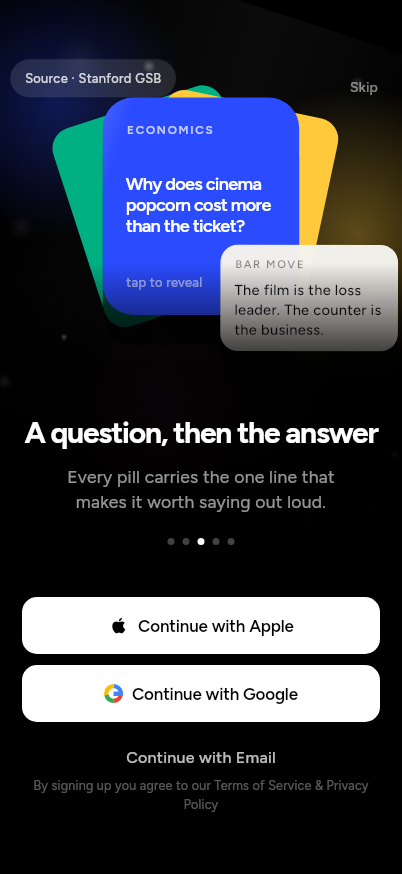
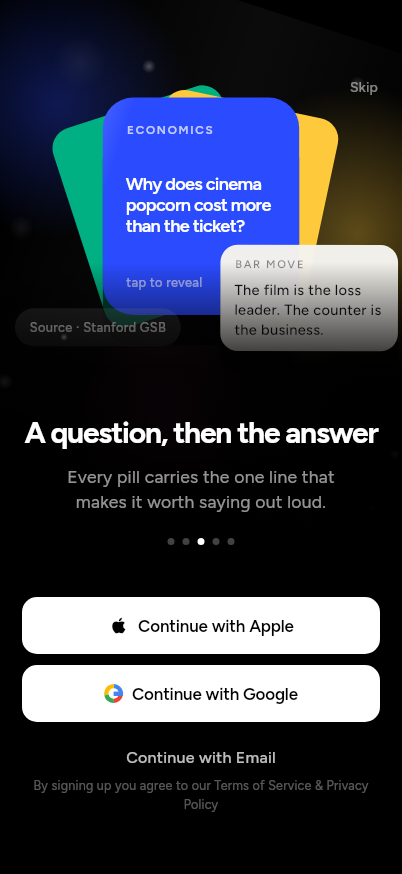
Move the source label below the card, clear of the edge
Above the deck it sat higher than Skip, which made a caption read as a
control — the eye takes the topmost thing on a screen as something to
press. It is bottom left now, under the card and beside the bar move,
which is also where a source belongs: after the claim, not before it.

It keeps a margin from the left as well. A label touching the glass
reads as something that did not fit rather than something placed.

Tests hold at 141.

Claude-Session: https://claude.ai/code/session_01N7S5NWHHUHV1bxBrKEgGPn

Changed region(s): [[0.0299, 0.0618, 0.4478, 0.1236], [0.209, 0.3707, 0.4179, 0.4016], [0.0896, 0.3707, 0.1791, 0.4016]]

diff --git a/lib/screens/intro_screen.dart b/lib/screens/intro_screen.dart
@@ -1188,11 +1188,12 @@ class _SceneCard extends StatelessWidget {
             ),
           ),
           Positioned(
-            left: 12,
-            // Above the deck rather than across it. Lying on the card it
-            // covered the one thing the card is there to show, and a label
-            // over artwork reads as a sticker somebody forgot to peel off.
-            top: 0,
+            // Bottom left, beside the bar move and below the card. Above the
+            // deck it sat higher than Skip, which made a caption look like a
+            // control; and it keeps a margin, because a label touching the
+            // glass reads as something that did not fit.
+            left: 16,
+            bottom: 8,
             child: _Pop(
               duration: const Duration(milliseconds: 600),
               delay: const Duration(milliseconds: 620),
